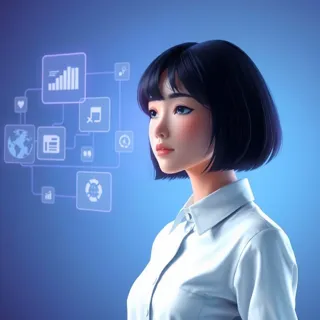
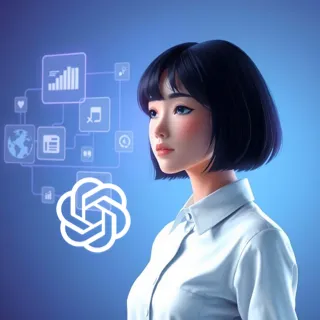
chatgpt

Changed region(s): [[0.1562, 0.5312, 0.4062, 0.8125]]

diff --git a/freeAI.html b/freeAI.html
@@ -3,7 +3,7 @@
 <head>
     <meta charset="UTF-8">
     <meta name="viewport" content="width=device-width, initial-scale=1.0">
-    <title>免费AI助手 - 智能对话/图像识别/文本转语音工具</title>
+    <title>免费ChatGPT - AI助手 - 智能对话/图像识别/文本转语音工具</title>
     <script src="https://cdn.jsdelivr.net/npm/marked/marked.min.js"></script>
     <script src="menu.js" defer></script>
     <link rel="icon" href="img/gongjuxiang.svg" type="image/svg">
@@ -804,8 +804,8 @@
     <div class="main-layout">
         <div class="sidebar">
             <div class="logo">
-                <h1>免费AI助手 <span class="status-indicator status-online"></span></h1>
-                <p class="panel-description" style="color: #fff;">完全免费使用！无需设置API密钥</p>
+                <h1>免费版ChatGPT AI助手 <span class="status-indicator status-online"></span></h1>
+                <p class="panel-description" style="color: #fff;">本站使用ChatGPT模型，完全免费使用！无需设置API密钥</p>
             </div>
             
             <div class="tabs">
@@ -1263,7 +1263,7 @@
                 displayHistory = [];
                 displayHistory.push({
                     role: 'ai',
-                    content: '<strong>您好 👏🏻😊<br>我是免费AI助手</strong><br><br>我可以为您答疑解惑，处理图像，转语音，完全免费使用！',
+                    content: '<strong>您好 👏🏻😊<br>我是ChatGPT AI助手</strong><br><br>我可以为您答疑解惑，处理图像，转语音，完全免费使用！',
                     timestamp: new Date().toLocaleTimeString([], { hour: '2-digit', minute: '2-digit' }),
                     initial: true
                 });

diff --git a/video/menu.js b/video/menu.js
@@ -377,7 +377,7 @@ const menuData = [
             { title: "AI高清放大", link: "scale.html" },
             { title: "AI一键抠图", link: "rembg.html" },
 	        { title: "AI绘画", link: "../draw.html" },
-	        { title: "AI数字人（免费版）", link: "../freeAI.html" },
+	        { title: "免费版ChatGPT", link: "../freeAI.html" },
 	        { title: "AI数字人（API版）", link: "../AI.html" },
             { title: "lora训练数据集编辑", link: "../model.html" },
             { title: "AI画风提示词大全", link: "../SDXL.html" },

diff --git a/menu.js b/menu.js
@@ -584,7 +584,7 @@ const menuData = [
             { title: "AI高清放大", link: "scale.html" },
             { title: "AI一键抠图", link: "rembg.html" },
 	        { title: "AI绘画", link: "draw.html" },
-	        { title: "AI数字人（免费版）", link: "freeAI.html" },
+	        { title: "免费版ChatGPT", link: "freeAI.html" },
 	        { title: "AI数字人（API版）", link: "AI.html" },
             { title: "lora训练数据集编辑", link: "model.html" },
             { title: "AI画风提示词大全", link: "SDXL.html" },

diff --git a/home.js b/home.js
@@ -105,7 +105,7 @@ const tools = [
         badge: ""
     },
     {
-        title: "AI数字人(免费版)",
+        title: "免费版ChatGPT",
         description: "无需API，可进行AI对话（支持图片上传）、提示词扩写、图像识别、文本转语音等功能",
         category: "dev",
         link: "freeAI.html",

diff --git a/index.html b/index.html
@@ -134,7 +134,7 @@
       "position": 8,
       "item": {
         "@type": "SoftwareApplication",
-        "name": "AI数字人",
+        "name": "免费版ChatGPT",
         "applicationCategory": "ArtificialIntelligenceApplication",
         "operatingSystem": "Web", 
         "offers": {
